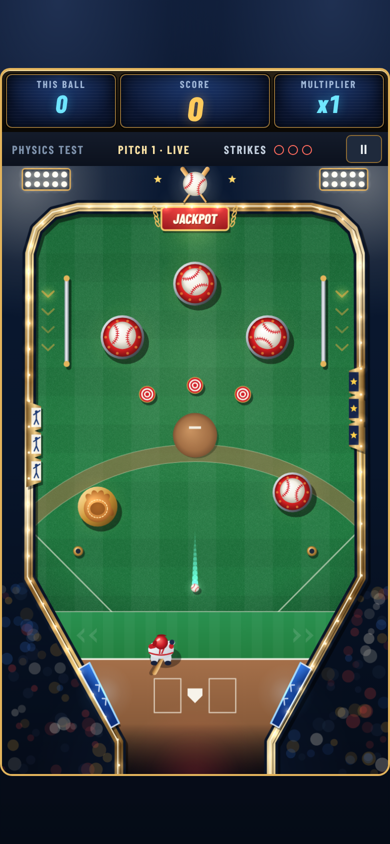
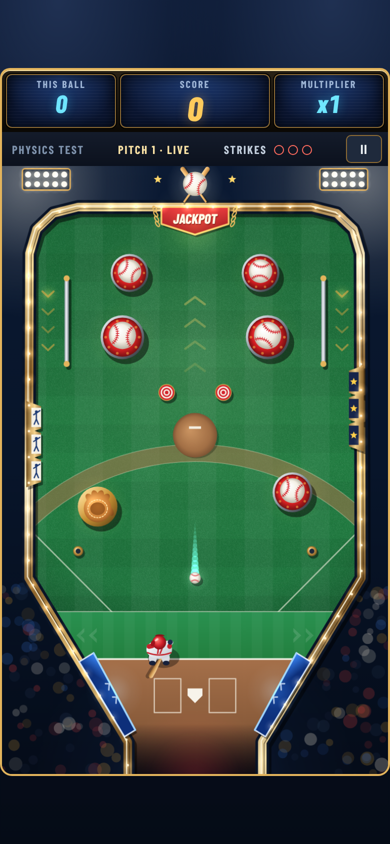
More forgiving play: bigger ball, wider swing reach, longer slings, open jackpot lane
- Ball radius 0.24 -> 0.32; swing tolerance 0.14 -> 0.28; bat 2.1 -> 2.3,
  aim center re-measured (hit window 248 -> 280 ms)
- Slingshots span most of the lower wall and protrude further; drain gap
  8.6 -> 7.6
- Center column cleared to the jackpot: top bumper split into an upper
  pair, bullseyes form a gate, V-shaped jackpot underside, lane arrows
- Bot (70 ms): survival 22.8 -> 59.4 s, jackpots 0.15 -> 1.32 per ball

Claude-Session: https://claude.ai/code/session_01C4SsZaKX4gQWqANQ3LqhKp

diff --git a/src/physics/board.ts b/src/physics/board.ts
@@ -27,9 +27,9 @@ const LEFT_WALL: Pt[] = [
   { x: 0.65, y: 3.2 },
   { x: 0.6, y: 21.4 },
   // lower angled sidewall converging toward the drain
-  { x: 5.7, y: 30.6 },
+  { x: 6.2, y: 30.6 },
   // short vertical drain lip
-  { x: 5.7, y: 32.5 },
+  { x: 6.2, y: 32.5 },
 ];
 const mirror = (p: Pt): Pt => ({ x: W - p.x, y: p.y });
 
@@ -43,7 +43,7 @@ export function lowerWallX(y: number) {
 }
 
 function makeSling(side: 'left' | 'right'): Sling {
-  const y0 = 26.5, y1 = 29.8, depth = 0.7;
+  const y0 = 26.1, y1 = 30.3, depth = 0.95;
   const a = { x: lowerWallX(y0), y: y0 }, b = { x: lowerWallX(y1), y: y1 };
   const dx = b.x - a.x, dy = b.y - a.y, len = Math.hypot(dx, dy);
   const n = { x: dy / len, y: -dx / len }; // inward normal (into the table)
@@ -63,7 +63,9 @@ function makeSling(side: 'left' | 'right'): Sling {
 }
 
 export const BUMPERS: Bumper[] = [
-  { id: 'bumper-top', kind: 'bumper', x: 10, y: 4.9, r: 1.1, style: 'ball' },
+  // Upper corner pair. The center column above the mound stays open so a straight-up hit can reach the jackpot.
+  { id: 'bumper-top-l', kind: 'bumper', x: 6.3, y: 4.3, r: 0.95, style: 'ball' },
+  { id: 'bumper-top-r', kind: 'bumper', x: 13.7, y: 4.3, r: 0.95, style: 'ball' },
   { id: 'bumper-left', kind: 'bumper', x: 5.9, y: 7.9, r: 1.1, style: 'ball' },
   { id: 'bumper-right', kind: 'bumper', x: 14.1, y: 7.9, r: 1.1, style: 'ball' },
   { id: 'bumper-mid', kind: 'bumper', x: 15.5, y: 16.6, r: 1.0, style: 'ball' },
@@ -71,9 +73,9 @@ export const BUMPERS: Bumper[] = [
 ];
 
 export const ROUND_TARGETS: RoundTarget[] = [
-  { id: 'bull-1', kind: 'target', x: 7.3, y: 11.1, r: 0.42 },
-  { id: 'bull-2', kind: 'target', x: 10, y: 10.6, r: 0.42 },
-  { id: 'bull-3', kind: 'target', x: 12.7, y: 11.1, r: 0.42 },
+  // Gate in front of the jackpot lane: only a well-centered hit slips between them.
+  { id: 'bull-1', kind: 'target', x: 8.4, y: 11.0, r: 0.42 },
+  { id: 'bull-3', kind: 'target', x: 11.6, y: 11.0, r: 0.42 },
 ];
 
 export const BOX_TARGETS: BoxTarget[] = [
@@ -105,7 +107,8 @@ export const MOUND = { x: config.pitch.x, y: config.pitch.y, r: 1.25 };
  */
 export function targetPoly(t: BoxTarget): Pt[] {
   if (t.style === 'jackpot') {
-    return [{ x: t.x - t.hw, y: t.y - t.hh }, { x: t.x + t.hw, y: t.y - t.hh }, { x: t.x + t.hw, y: t.y + t.hh }, { x: t.x - t.hw, y: t.y + t.hh }];
+    // Shallow V underside: a jackpot hit kicks off to one side instead of dropping straight back to the bat.
+    return [{ x: t.x - t.hw, y: t.y - t.hh }, { x: t.x + t.hw, y: t.y - t.hh }, { x: t.x + t.hw, y: t.y + t.hh - 0.35 }, { x: t.x, y: t.y + t.hh + 0.25 }, { x: t.x - t.hw, y: t.y + t.hh - 0.35 }];
   }
   const f = t.face.x; // +1 faces right (left wall), -1 faces left (right wall)
   const back = t.x - f * (t.hw + 0.12), front = t.x + f * t.hw;

diff --git a/tests/sim.test.ts b/tests/sim.test.ts
@@ -4,7 +4,7 @@ import * as P from 'planck';
 import { config } from '../src/config.ts';
 import { Simulation, type SimEvent } from '../src/physics/sim.ts';
 import { makeControls } from '../src/core/input.ts';
-import { SLINGS, OUTER_WALL } from '../src/physics/board.ts';
+import { SLINGS, OUTER_WALL, BUMPERS } from '../src/physics/board.ts';
 
 const DT = 1 / config.physicsHz;
 function run(sim: Simulation, seconds: number, each?: (s: Simulation) => void) {
@@ -140,7 +140,7 @@ test('8. a side escape below the batter is a strike even though it never crosses
   const s = new Simulation();
   s.ready();
   // ball slipping down between the right sling and the drain lip, far right of center
-  s.spawnBall(13.9, 30.0, 0, 5);
+  s.spawnBall(12.9, 30.6, 0, 5);
   run(s, 2);
   assert.equal(s.rules.strikes, 1);
   const d = s.events.find(e => e.type === 'drain') as Extract<SimEvent, { type: 'drain' }>;
@@ -150,8 +150,8 @@ test('8. a side escape below the batter is a strike even though it never crosses
 test('9. score banks on collisions as they happen and survives strikes', () => {
   const s = new Simulation();
   s.ready();
-  // drop onto the top bumper
-  s.spawnBall(10.3, 2.6, 0, 2);
+  // drop onto an upper bumper
+  s.spawnBall(BUMPERS[0].x + 0.3, BUMPERS[0].y - 2, 0, 2);
   let scoredLive = false;
   run(s, 6, s => { if (s.ball && s.rules.score > 0) scoredLive = true; });
   assert.ok(scoredLive, 'score appears while the ball is still live');
@@ -165,7 +165,7 @@ test('9. score banks on collisions as they happen and survives strikes', () => {
 test('bumpers kick hard', () => {
   const s = new Simulation();
   s.ready();
-  s.spawnBall(10, 2.4, 0, 3);
+  s.spawnBall(BUMPERS[0].x, BUMPERS[0].y - 1.9, 0, 3);
   let out = 0;
   run(s, 0.6, s => {
     if (s.events.some(e => e.type === 'machine' && e.kind === 'bumper')) {
@@ -217,6 +217,15 @@ test('balls never come to rest on the playfield (anti-trap)', () => {
     if (!s.ball) s.rules.phase = 'live';
   }
   assert.ok(maxStill <= config.ball.stuckSeconds + 0.05, `longest still ${maxStill.toFixed(2)}s`);
+});
+
+test('a straight-up hit from the plate has a clear path to the jackpot', () => {
+  const s = new Simulation();
+  s.ready();
+  s.spawnBall(10, 22, 0, -config.swing.exitSpeed);
+  run(s, 1.5);
+  const first = s.events.find(e => e.type === 'machine') as Extract<SimEvent, { type: 'machine' }>;
+  assert.equal(first?.kind, 'jackpot');
 });
 
 test('side lanes score on rollover', () => {

diff --git a/src/config.ts b/src/config.ts
@@ -11,7 +11,7 @@ export const config = {
   physicsHz: 240,
   gravity: 14,
   ball: {
-    radius: 0.24,
+    radius: 0.32,
     restitution: 0.5,
     linearDamping: 0.03,
     maxSpeed: 36,
@@ -31,20 +31,20 @@ export const config = {
      * Batter position = x of the hands (bat pivot). Start so a straight center pitch meets the
      * barrel without moving.
      */
-    startX: 8.7,
+    startX: 8.6,
     /** y of the batter's hands (bat pivot). */
     handsY: 25.0,
     /** Hands sit this far right of the batter's body center (right-handed batter). */
     handsOffsetX: 0.62,
     minX: 4.1,
-    maxX: 15.2,
+    maxX: 14.9,
     moveSpeed: 13,
   },
   swing: {
-    length: 2.1,
+    length: 2.3,
     /** Contact envelope = bat radius + ball radius + this tolerance. */
     radius: 0.16,
-    tolerance: 0.14,
+    tolerance: 0.28,
     /** Bat must be this far from the hands to count (the knob/hands don't hit). */
     minReach: 0.3,
     /** ~7 o'clock */
@@ -59,11 +59,11 @@ export const config = {
     battingLine: 0.95,
     /**
      * Bat angle at contact that sends the ball straight up. Measured: a straight pitch is contactable
-     * from about -1.1 (early) to +0.9 rad (late), so center sits in the middle of that range.
+     * from about -1.1 (early) to +1.05 rad (late), so center sits in the middle of that range.
      */
-    centerAngle: -0.1,
+    centerAngle: -0.03,
     /** Bat-angle distance from center that maps to full left/right aim. */
-    aimHalfRange: 0.9,
+    aimHalfRange: 0.95,
     /** Widest aim from vertical. */
     maxAim: 0.8,
     /** Every valid contact leaves at this speed: early/late are not penalised. */

diff --git a/src/view/game.ts b/src/view/game.ts
@@ -321,6 +321,19 @@ export class GameView {
     ctx.moveTo(HOME.x, HOME.y);
     ctx.lineTo(HOME.x + 14, HOME.y - 14);
     ctx.stroke();
+    // jackpot lane arrows painted up the center, through the bullseye gate (paint only)
+    ctx.lineCap = 'round';
+    ctx.lineJoin = 'round';
+    ctx.lineWidth = 0.13;
+    for (let i = 0; i < 4; i++) {
+      const y = 9.4 - i * 1.25;
+      ctx.strokeStyle = `rgba(255,215,106,${0.16 + i * 0.07})`;
+      ctx.beginPath();
+      ctx.moveTo(9.45, y + 0.4);
+      ctx.lineTo(10, y);
+      ctx.lineTo(10.55, y + 0.4);
+      ctx.stroke();
+    }
     // pitcher's mound (serve point): decorative, no collision
     const m = ctx.createRadialGradient(MOUND.x - 0.3, MOUND.y - 0.3, 0.1, MOUND.x, MOUND.y, MOUND.r);
     m.addColorStop(0, '#c7915f');
@@ -596,12 +609,12 @@ export class GameView {
     ctx.fill();
     ctx.restore();
     if (t.style === 'jackpot') {
-      const g = ctx.createLinearGradient(0, t.y - t.hh, 0, t.y + t.hh);
+      const g = ctx.createLinearGradient(0, t.y - t.hh, 0, t.y + t.hh + 0.25);
       g.addColorStop(0, '#e2363b');
       g.addColorStop(1, '#8e1118');
       ctx.fillStyle = g;
-      ctx.beginPath();
-      ctx.roundRect(t.x - t.hw, t.y - t.hh, t.hw * 2, t.hh * 2, 0.2);
+      ctx.lineJoin = 'round';
+      path(ctx, poly);
       ctx.fill();
       ctx.strokeStyle = '#f0c46a';
       ctx.lineWidth = 0.1;

diff --git a/docs/PLAYTEST.md b/docs/PLAYTEST.md
@@ -2,9 +2,30 @@
 
 What was measured, how, and what still needs a human with a real phone.
 
+## Update after the first hands-on session (prototype 02.1)
+
+Hayden's feedback: best was 4,200 over 3 strikes, one jackpot in about 15 runs, the swing felt stingy, and balls kept slipping past the blue slingshots.
+
+Changes:
+- Ball radius 0.24 → 0.32 (it was about half the size of a real pinball relative to the table).
+- Swing tolerance 0.14 → 0.28 and bat length 2.1 → 2.3. The straight-pitch hit window went from 248 ms to 280 ms, and the aim center was re-measured.
+- Slingshots now run along almost the whole lower wall (y 26.1 → 30.3) and stick out 0.95 instead of 0.7. The drain gap narrowed from 8.6 to 7.6.
+- The jackpot lane is open. The top bumper became an upper corner pair, the two bullseyes form a gate a centered hit can slip through, and the jackpot has a V-shaped underside.
+
+Bot results, same seed, before → after:
+
+| Timing error | Survival / ball | Bat hits / ball | Score / ball | Sling fires / ball | Jackpots / ball |
+|---|---|---|---|---|---|
+| 70 ms | 22.8 → 59.4 s | 6.7 → 19.5 | 1,055 → 3,755 | 1.11 → 2.75 | 0.15 → 1.32 |
+| 110 ms | 12.3 → 25.8 s | 3.5 → 7.8 | 509 → 1,471 | 0.70 → 1.89 | 0.08 → 0.39 |
+
+The share of bat hits that reach the jackpot went from about 2% to about 7%. Opening the center without the gate pushed it to about 10% (a jackpot almost every rally), which was too much.
+
+Watch for: this is now a lot more forgiving. If rallies feel endless, try `tune.swing.tolerance = 0.2` first, then `tune.sling.kick = 14`.
+
 ## How this was tested
 
-- **Automated tests:** `npm test` runs 23 tests covering the 10 required cases in the build prompt, plus swing-arc, aim and anti-trap checks. Mutation-checked: allowing upward hits breaks 3 tests, and removing the batting line breaks 1.
+- **Automated tests:** `npm test` runs 24 tests covering the 10 required cases in the build prompt, plus swing-arc, aim and anti-trap checks. Mutation-checked: allowing upward hits breaks 3 tests, and removing the batting line breaks 1.
 - **Bot playtest:** `npm run bot -- <balls> <timingErrorMs> <seed>`. This is a headless "player" that tracks the ball at keyboard speed, reacts 180 ms after the ball turns downward, and swings with a Gaussian timing error. It's a tuning aid, not a replacement for hands-on play: it predicts the ball path perfectly and never panics.
 - **Browser:** the production build ran in headless Chrome at 1366×900 desktop and at 390×844 portrait phone (DPR 3, touch emulated). Ready, move and swing were driven through real `keydown` events and real CDP multi-touch events.
 

diff --git a/README.md b/README.md
@@ -7,7 +7,7 @@ A portrait, baseball-themed pinball physics prototype. You slide a batter, time 
 ```bash
 npm ci
 npm run dev        # open the printed URL (works on your phone over LAN)
-npm test           # 23 rule/swing/physics tests
+npm test           # 24 rule/swing/physics tests
 npm run typecheck
 npm run build      # → dist/
 npm run bot -- 300 50   # headless bot playtest: balls, swing timing error (ms)
